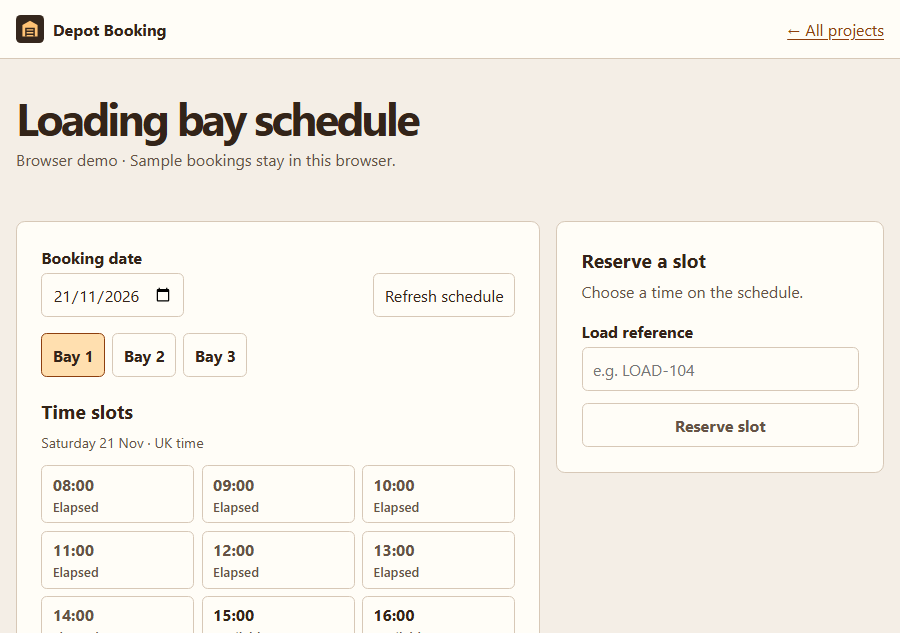
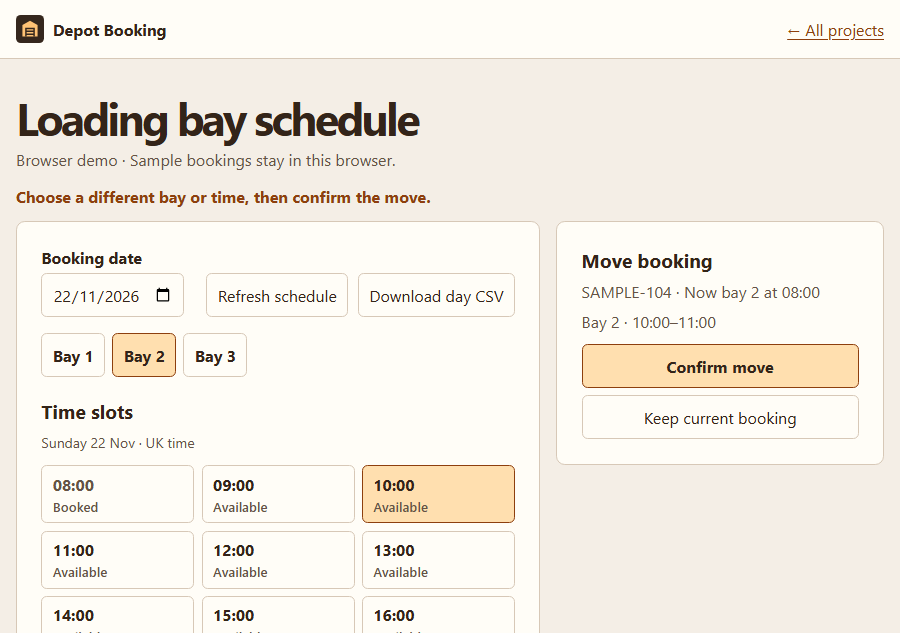
Refresh project previews and published feature evidence

diff --git a/src/components/additionalStudies.ts b/src/components/additionalStudies.ts
@@ -2,27 +2,27 @@ export const additionalStudies = {
   "depot-booking": {
     title: "Depot Booking",
     subtitle: "Reserve an hour at a loading bay.",
-    revision: "3185bfc",
+    revision: "95c4004",
     stack: "React · ASP.NET Core · PostgreSQL · IndexedDB",
     live: "https://depot.artemislab.co.uk/",
     source: "https://github.com/s7a7ic-37/depot-booking",
-    problem: "The schedule lets people choose a bay and hour, enter a load reference, and release a slot if plans change.",
-    flow: ["Choose a day and bay", "Reserve a slot", "Refresh when another tab takes it", "Cancel a future booking"],
+    problem: "The schedule lets people reserve a bay and hour, move a booking when plans change, and download the day’s bookings.",
+    flow: ["Choose a day and bay", "Reserve a slot", "Move or cancel a future booking", "Download the daily schedule"],
     decisions: [
       {title: "Keep one booking per slot", text: "PostgreSQL enforces uniqueness by workspace, date, bay and hour. Two requests for the same slot produce one save and one conflict.", path: "api/Program.cs"},
-      {title: "Check the booking before cancelling", text: "Cancellation checks the booking ID. A tab holding an older copy cannot cancel a replacement.", path: "web/src/demo.ts"},
+      {title: "Keep the original during a move", text: "If the new slot is taken, PostgreSQL rolls back the move. A successful move gets a new ID so an older tab cannot cancel it.", path: "api/Program.cs"},
       {title: "Make the demo work in two tabs", text: "The hosted demo uses IndexedDB's unique slot key and write transaction to show the same race in one browser.", path: "web/src/demo.ts"},
     ],
-    proof: "Tests cover concurrent saves and separate workspaces against PostgreSQL. Mobile browser tests cover stale cancellation and replacement.",
+    proof: "PostgreSQL tests cover concurrent saves and moves, separate workspaces and stale cancellation. Phone browser tests also check the daily CSV.",
     checks: [{label: "PostgreSQL API tests", path: "tests/booking.test.mjs"}, {label: "Mobile booking tests", path: "web/tests/booking.spec.js"}],
-    demo: "Open tomorrow’s schedule in two tabs of the same browser. Choose the same bay and hour in both, then reserve using sample references.",
+    demo: "Reserve two slots for tomorrow using sample references. In two tabs of the same browser, try moving them to the same bay and hour. Open the day’s CSV to check both bookings.",
     limits: "The hosted demo stores sample bookings in the browser. The ASP.NET Core and PostgreSQL version is available in the source.",
     contribution: "Personal project covering booking rules, database constraints and the schedule interface.",
   },
   "river-data-monitor": {
     title: "River Data Monitor",
     subtitle: "River readings and the checks behind them.",
-    revision: "4c753cc",
+    revision: "d594ea9",
     stack: "Python · SQL · DuckDB · GitHub Actions",
     live: "https://river.artemislab.co.uk/",
     source: "https://github.com/s7a7ic-37/river-data-monitor",
@@ -31,23 +31,23 @@ export const additionalStudies = {
     decisions: [
       {title: "Keep one row per reading time", text: "DuckDB identifies repeats and updates a height when the provider sends a correction.", path: "monitor.py"},
       {title: "Keep the last good readings", text: "A failed import records an error and retains the last good snapshot.", path: "tests/test_monitor.py"},
-      {title: "Show missed intervals", text: "A gap over 15 minutes breaks the chart line. The reading control and CSV use the same selected range.", path: "web/app.js"},
+      {title: "Show gaps in the feed", text: "A gap over 15 minutes breaks the chart line. The gap list gives the two observed times and their elapsed duration.", path: "web/app.js"},
     ],
     proof: "A real repeat import added zero rows. Tests cover conflicting readings, provider failure and backup data.",
     checks: [{label: "Import tests", path: "tests/test_monitor.py"}, {label: "Report route tests", path: "tests/worker.test.mjs"}, {label: "Manual refresh run", path: "https://github.com/s7a7ic-37/river-data-monitor/actions/runs/44913007482"}],
-    demo: "Choose a range, move between readings and download the CSV. Compare the reading time with the import time.",
+    demo: "Choose a range, inspect a reading and download the CSV. When the range has gaps, open Reading gaps to see the times.",
     limits: "Each successful import updates a rolling 72-hour window for one gauge. Measurements can arrive in batches. The refresh workflow is configured to run every two hours.",
     contribution: "Personal project using public Environment Agency data.",
   },
   "webhook-delivery-lab": {
     title: "Webhook Delivery Lab",
     subtitle: "See why a delivery retries or stops.",
-    revision: "37f6926",
+    revision: "99216d7",
     stack: "TypeScript · Browser storage · Node tests",
     live: "https://webhooks.artemislab.co.uk/",
     source: "https://github.com/s7a7ic-37/webhook-delivery-lab",
     problem: "The lab shows what a delivery queue does when a fictional receiver succeeds, rejects an event or fails temporarily.",
-    flow: ["Queue a sample event", "Process an eligible delivery", "Advance the clock", "Inspect each attempt"],
+    flow: ["Queue a sample event", "Process an eligible delivery", "Advance the clock", "Inspect or export the attempts"],
     decisions: [
       {title: "Use a bounded retry schedule", text: "Temporary failures wait 2, 4 and 8 seconds between attempts. A permanent rejection ends the delivery.", path: "src/queue.ts"},
       {title: "Keep duplicate events out", text: "Requeuing an existing ID preserves its original delivery and attempt history.", path: "tests/queue.test.mjs"},
@@ -55,7 +55,7 @@ export const additionalStudies = {
     ],
     proof: "Tests cover retry order, duplicate prevention, capacity and corrupt or blocked storage. Browser checks verified that running the simulation makes zero network requests.",
     checks: [{label: "Queue tests", path: "tests/queue.test.mjs"}, {label: "Storage tests", path: "tests/session.test.mjs"}],
-    demo: "Choose Temporary outage, select Queue event, then Process next. Advance the simulated clock and process the retry.",
+    demo: "Choose Temporary outage, select Queue event, then Process next. Advance the clock, process the retry and download the attempt history.",
     limits: "All responses are fixed fictional examples. The queue uses a simulated clock and holds up to 30 events per tab.",
     contribution: "Personal simulation of delivery retry and recovery rules.",
   },
@@ -82,7 +82,7 @@ export const additionalStudies = {
   "release-check": {
     title: "Release Check",
     subtitle: "See the evidence behind a failed release gate.",
-    revision: "a284ff1",
+    revision: "dcd9f0a",
     stack: "Playwright · JavaScript · GitHub Actions",
     live: "https://release.artemislab.co.uk/",
     source: "https://github.com/s7a7ic-37/release-check",

diff --git a/tests/browser/case-studies.spec.js b/tests/browser/case-studies.spec.js
@@ -2,25 +2,25 @@ import {test, expect} from "@playwright/test";
 
 const evidenceLinks = {
   "depot-booking": [
-    ["PostgreSQL API tests ↗", "https://github.com/s7a7ic-37/depot-booking/blob/3185bfc/tests/booking.test.mjs"],
-    ["Mobile booking tests ↗", "https://github.com/s7a7ic-37/depot-booking/blob/3185bfc/web/tests/booking.spec.js"],
+    ["PostgreSQL API tests ↗", "https://github.com/s7a7ic-37/depot-booking/blob/95c4004/tests/booking.test.mjs"],
+    ["Mobile booking tests ↗", "https://github.com/s7a7ic-37/depot-booking/blob/95c4004/web/tests/booking.spec.js"],
   ],
   "river-data-monitor": [
-    ["Import tests ↗", "https://github.com/s7a7ic-37/river-data-monitor/blob/4c753cc/tests/test_monitor.py"],
-    ["Report route tests ↗", "https://github.com/s7a7ic-37/river-data-monitor/blob/4c753cc/tests/worker.test.mjs"],
+    ["Import tests ↗", "https://github.com/s7a7ic-37/river-data-monitor/blob/d594ea9/tests/test_monitor.py"],
+    ["Report route tests ↗", "https://github.com/s7a7ic-37/river-data-monitor/blob/d594ea9/tests/worker.test.mjs"],
     ["Manual refresh run ↗", "https://github.com/s7a7ic-37/river-data-monitor/actions/runs/44913007482"],
   ],
   "webhook-delivery-lab": [
-    ["Queue tests ↗", "https://github.com/s7a7ic-37/webhook-delivery-lab/blob/37f6926/tests/queue.test.mjs"],
-    ["Storage tests ↗", "https://github.com/s7a7ic-37/webhook-delivery-lab/blob/37f6926/tests/session.test.mjs"],
+    ["Queue tests ↗", "https://github.com/s7a7ic-37/webhook-delivery-lab/blob/99216d7/tests/queue.test.mjs"],
+    ["Storage tests ↗", "https://github.com/s7a7ic-37/webhook-delivery-lab/blob/99216d7/tests/session.test.mjs"],
   ],
   "document-search-lab": [
     ["Python evaluation tests ↗", "https://github.com/s7a7ic-37/document-search-lab/blob/59852d5/tests/test_evaluation.py"],
     ["Browser and Python parity tests ↗", "https://github.com/s7a7ic-37/document-search-lab/blob/59852d5/tests/search.test.mjs"],
   ],
   "release-check": [
-    ["Release verdict tests ↗", "https://github.com/s7a7ic-37/release-check/blob/a284ff1/tests/report.test.mjs"],
-    ["CI gate verification ↗", "https://github.com/s7a7ic-37/release-check/blob/a284ff1/.github/workflows/checks.yml"],
+    ["Release verdict tests ↗", "https://github.com/s7a7ic-37/release-check/blob/dcd9f0a/tests/report.test.mjs"],
+    ["CI gate verification ↗", "https://github.com/s7a7ic-37/release-check/blob/dcd9f0a/.github/workflows/checks.yml"],
   ],
   "runbook-desk": [
     ["Database retry tests ↗", "https://github.com/s7a7ic-37/runbook-desk/blob/10041c5/tests/test_creation_retries.py"],
@@ -38,9 +38,10 @@ const evidenceLinks = {
     ["API CI run ↗", "https://github.com/s7a7ic-37/pure-news-api/actions/runs/42480464240"],
   ],
   "grid-demand-lab": [
-    ["Forecast and time-split tests ↗", "https://github.com/s7a7ic-37/grid-demand-lab/blob/681b10d/tests/test_forecast.py"],
-    ["Chart interaction tests ↗", "https://github.com/s7a7ic-37/grid-demand-lab/blob/681b10d/tests/test_plotting.py"],
-    ["Green CI run ↗", "https://github.com/s7a7ic-37/grid-demand-lab/actions/runs/42482666073"],
+    ["Forecast and time-split tests ↗", "https://github.com/s7a7ic-37/grid-demand-lab/blob/7b9f328/tests/test_forecast.py"],
+    ["Chart interaction tests ↗", "https://github.com/s7a7ic-37/grid-demand-lab/blob/7b9f328/tests/test_plotting.py"],
+    ["Refresh recovery tests ↗", "https://github.com/s7a7ic-37/grid-demand-lab/blob/7b9f328/tests/test_refresh.py"],
+    ["Green CI run ↗", "https://github.com/s7a7ic-37/grid-demand-lab/actions/runs/44915967482"],
   ],
   "travel-planner": [
     ["Plan and transfer tests ↗", "https://github.com/s7a7ic-37/travel-planner/blob/3878358/travel-planner-fe/tests/demo.test.mjs"],

diff --git a/src/components/studyData.ts b/src/components/studyData.ts
@@ -60,7 +60,7 @@ export const studies = {
   "grid-demand-lab": {
     title: "Grid Demand Lab",
     subtitle: "Estimating tomorrow’s electricity demand.",
-    revision: "681b10d",
+    revision: "7b9f328",
     stack: "Python · LightGBM · pandas · Streamlit · NESO API",
     live: "https://grid.artemislab.co.uk/",
     source: "https://github.com/s7a7ic-37/grid-demand-lab",
@@ -69,13 +69,14 @@ export const studies = {
     decisions: [
       {title: "Match periods by date", text: "Previous-day and previous-week values use the calendar date and settlement period. This handles 46- and 50-period days without shifting every later row.", path: "forecast.py"},
       {title: "Compare with simple baselines", text: "A 28-day holdout and four quarter-end tests compare the model with previous-day and previous-week forecasts. The test periods do not choose the model.", path: "tests/test_forecast.py"},
-      {title: "Refresh without retraining", text: "Refresh fetches readings and recalculates the forecast; it does not fit a new model. CSV download captures the values already shown.", path: "app.py"},
+      {title: "Keep the last forecast after errors", text: "Refresh recalculates with the existing model. If the feed fails, the open session keeps its last chart and CSV with the original timestamp.", path: "app.py"},
     ],
     proof: "On a 28-day 2025 holdout, model MAE was 1,604 MW; previous-day and previous-week baselines were 1,960 MW and 2,278 MW. Tests cover feed parsing, 46/48/50-period days and CSV export.",
     checks: [
       {label: "Forecast and time-split tests", path: "tests/test_forecast.py"},
       {label: "Chart interaction tests", path: "tests/test_plotting.py"},
-      {label: "Green CI run", path: "https://github.com/s7a7ic-37/grid-demand-lab/actions/runs/42482666073"},
+      {label: "Refresh recovery tests", path: "tests/test_refresh.py"},
+      {label: "Green CI run", path: "https://github.com/s7a7ic-37/grid-demand-lab/actions/runs/44915967482"},
     ],
     demo: "Choose a time on the chart, download the displayed forecast, then open the backtests to compare historical errors.",
     limits: "The tests use historical data and do not show that the model is suitable for grid operations. The live feed can lag; incomplete days use a weekly fallback. Extra repeated-hour predictions reuse period 48. Free hosting may take time to start.",
